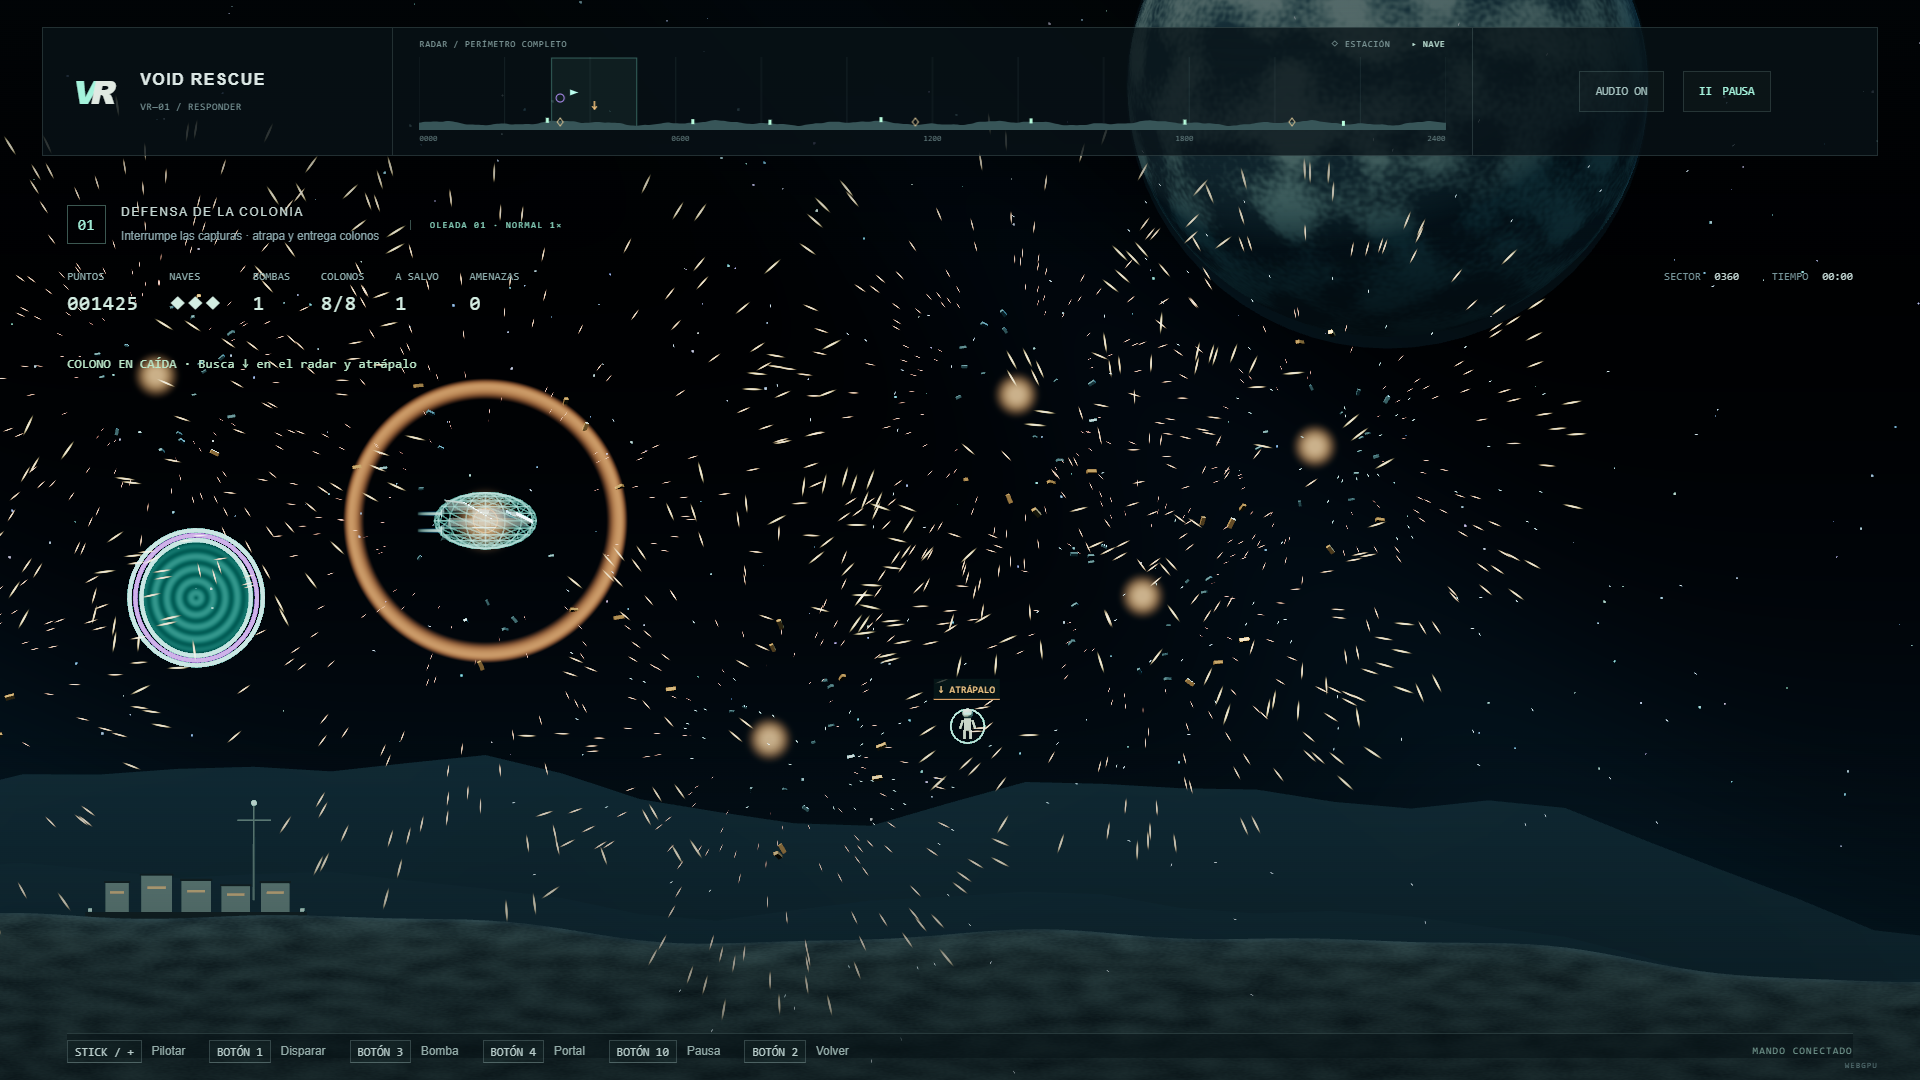
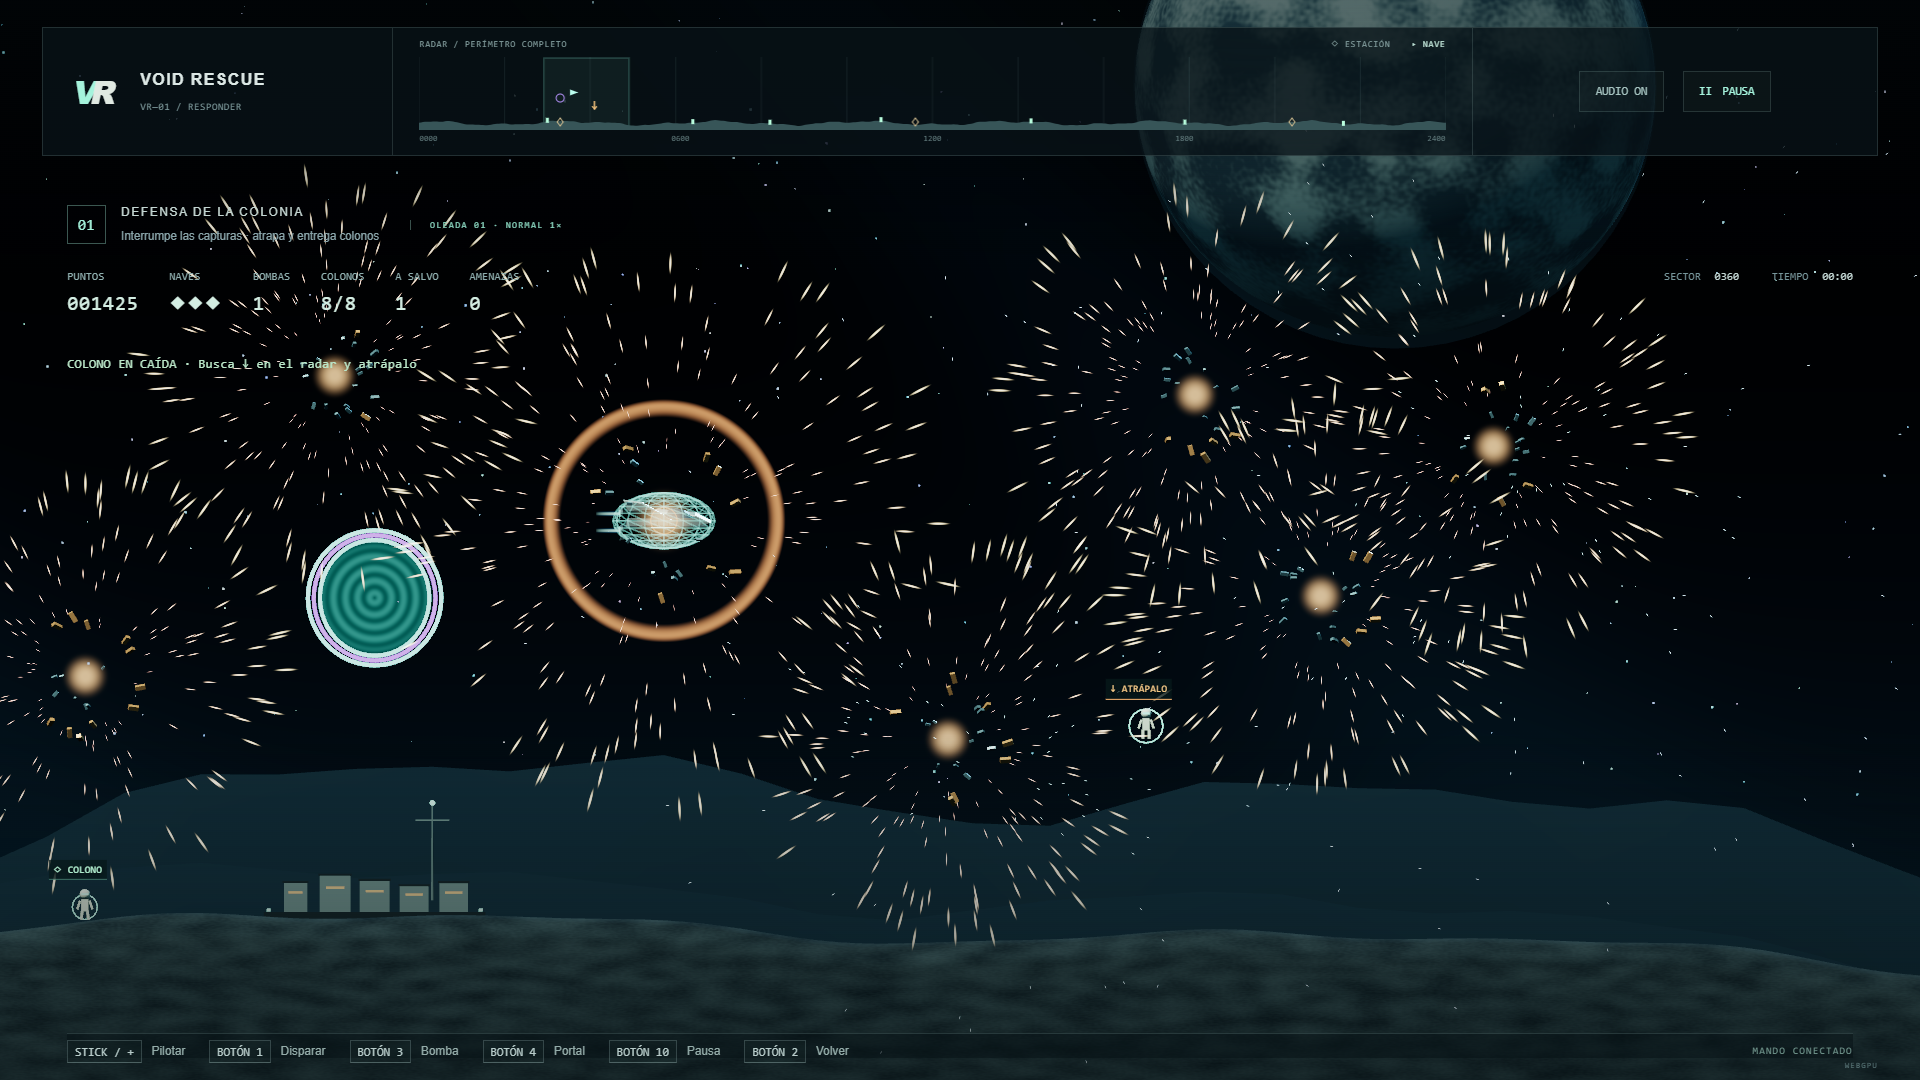
Polish camera timing and sci-fi audio

diff --git a/src/audio/AudioEngine.ts b/src/audio/AudioEngine.ts
@@ -8,6 +8,8 @@ export class AudioEngine {
   private master: GainNode | null = null;
   private engineGain: GainNode | null = null;
   private engine: OscillatorNode | null = null;
+  private engineWhine: OscillatorNode | null = null;
+  private engineWhineGain: GainNode | null = null;
   muted = false;
   volume = 0.45;
   private lastEventId = 0;
@@ -20,14 +22,22 @@ export class AudioEngine {
       const master = this.master = masterBus(context, context.destination);
       this.combat = new CombatSound(context, master);
       const engine = this.engine = context.createOscillator();
-      engine.type = 'sawtooth';
+      engine.type = 'triangle';
       const filter = context.createBiquadFilter();
-      filter.type = 'lowpass';
-      filter.frequency.value = 160;
+      filter.type = 'bandpass';
+      filter.frequency.value = 115; filter.Q.value = 0.7;
       const gain = this.engineGain = context.createGain();
       gain.gain.value = 0;
       engine.connect(filter).connect(gain).connect(master);
+      const whine = this.engineWhine = context.createOscillator();
+      whine.type = 'sine';
+      const whineFilter = context.createBiquadFilter();
+      whineFilter.type = 'lowpass'; whineFilter.frequency.value = 2600;
+      const whineGain = this.engineWhineGain = context.createGain();
+      whineGain.gain.value = 0;
+      whine.connect(whineFilter).connect(whineGain).connect(master);
       engine.start();
+      whine.start();
     }
     await this.context.resume();
     this.setVolume(this.volume);
@@ -41,10 +51,14 @@ export class AudioEngine {
   setMuted(value: boolean): void { this.muted = value; this.setVolume(this.volume); }
 
   update(thrust: number, speed: number, active: boolean): void {
-    if (!this.context || !this.engine || !this.engineGain) return;
+    if (!this.context || !this.engine || !this.engineGain || !this.engineWhine || !this.engineWhineGain) return;
     const now = this.context.currentTime;
-    this.engine.frequency.setTargetAtTime(36 + speed * 0.8 + thrust * 15, now, 0.06);
-    this.engineGain.gain.setTargetAtTime(active ? 0.022 + thrust * 0.06 : 0, now, 0.06);
+    // A filtered core plus a speed-linked sine whine reads as an ion drive,
+    // avoiding the low sawtooth tone of a combustion engine.
+    this.engine.frequency.setTargetAtTime(48 + speed * 0.18 + thrust * 18, now, 0.06);
+    this.engineWhine.frequency.setTargetAtTime(145 + speed * 4.2 + thrust * 165, now, 0.045);
+    this.engineGain.gain.setTargetAtTime(active ? 0.012 + thrust * 0.032 : 0, now, 0.06);
+    this.engineWhineGain.gain.setTargetAtTime(active ? 0.006 + thrust * 0.034 : 0, now, 0.045);
   }
 
   pulse(): void {
@@ -92,5 +106,5 @@ export class AudioEngine {
     return { initialized: this.context !== null, state: this.context?.state ?? 'locked', muted: this.muted, volume: this.volume };
   }
 
-  dispose(): void { this.engine?.stop(); void this.context?.close(); }
+  dispose(): void { this.engine?.stop(); this.engineWhine?.stop(); void this.context?.close(); }
 }

diff --git a/src/render/DestructionEffects.ts b/src/render/DestructionEffects.ts
@@ -41,7 +41,7 @@ export class DestructionEffects {
       if (age < 0 || !['spawn', 'impact', 'explosion', 'player-hit', 'bomb'].includes(event.kind)) continue;
       const x = nearCameraX(event.x, cameraX, CONFIG.worldWidth);
       const impact = event.kind === 'impact', spawning = event.kind === 'spawn', large = event.kind === 'bomb' || event.kind === 'player-hit';
-      const duration = impact ? 0.3 : spawning ? 0.65 : 0.62;
+      const duration = impact ? 0.3 : spawning ? 0.65 : large ? 1.45 : 1.25;
       if (age > duration) continue;
       const reach = impact ? 14 : spawning ? width * 0.45 : width * 0.75;
       if (Math.abs(x - cameraX) > width / 2 + reach) continue;
@@ -57,12 +57,12 @@ export class DestructionEffects {
         const random = noise(event.id * 73856093 + i * 19349663);
         const variation = noise(event.id * 83492791 + i * 2971215073);
         const angle = variation * Math.PI * 2;
-        const lifetime = spawning ? 0.38 + random * 0.24 : impact ? 0.16 + random * 0.14 : 0.3 + random * 0.32;
+        const lifetime = spawning ? 0.38 + random * 0.24 : impact ? 0.16 + random * 0.14 : 0.65 + random * (large ? 0.8 : 0.6);
         if (age > lifetime) continue;
         const progress = Math.min(1, age / lifetime);
         const travel = spawning
           ? width * (0.12 + random * 0.43) * (1 - progress)
-          : (impact ? 20 + random * 38 : 85 + random * 265) * scale * age;
+          : (impact ? 20 + random * 38 : 85 + random * 265) * scale * (1 - Math.exp(-age * 2.4)) / 2.4;
         this.helper.position.set(x + Math.cos(angle) * travel, event.y + Math.sin(angle) * travel - (spawning ? 0 : age * age * (8 + random * 22)), 14);
         this.helper.rotation.set(0, 0, angle);
         const fade = spawning ? Math.min(1, progress * 3) : 1 - progress;
@@ -75,7 +75,7 @@ export class DestructionEffects {
       }
       if (!impact && !spawning) for (let i = 0; i < (reduced ? 4 : 18) && debrisCount < 128; i++) {
         const random = noise(event.id * 2654435761 + i * 1597334677);
-        const angle = noise(event.id * 40503 + i * 7919) * Math.PI * 2, speed = (45 + random * 105) * scale;
+        const angle = noise(event.id * 40503 + i * 7919) * Math.PI * 2, speed = (30 + random * 70) * scale;
         this.helper.position.set(x + Math.cos(angle) * speed * age, event.y + Math.sin(angle) * speed * age - 8 * age * age, 13);
         this.helper.rotation.set(age * (i + 2), age * 2, angle + age * 5);
         this.helper.scale.setScalar((0.45 + random * 0.8) * Math.max(0, 1 - age / duration));

diff --git a/src/audio/CombatSound.ts b/src/audio/CombatSound.ts
@@ -44,17 +44,20 @@ export class CombatSound {
     };
     let last: AudioBufferSourceNode;
     if (kind === 'shot') {
-      tone(1300, 130, 0.14, 0.2, 'triangle'); tone(130, 48, 0.09, 0.28, 'sine');
-      last = noise(0.16, 6500, 900, 0.18);
+      // A rising plasma chirp and a short crystalline tail give the cannon a
+      // high-energy sci-fi identity without masking rapid follow-up shots.
+      tone(310, 2050, 0.1, 0.22, 'sawtooth'); tone(2650, 410, 0.18, 0.14, 'sine');
+      last = noise(0.19, 9800, 1250, 0.2);
     } else if (kind === 'impact') {
       tone(470, 85, 0.18, 0.22, 'triangle');
       last = noise(0.22, 8000, 700, 0.6);
     } else {
-      tone(large ? 85 : 135, 28, large ? 0.85 : 0.55, 0.62, 'sine');
-      tone(290 + seed % 80, 48, 0.23, 0.09, 'triangle');
-      noise(0.24, 11000, 1400, 0.85);
-      noise(0.45, 1900, 140, 0.5, 0.06);
-      last = noise(large ? 1.05 : 0.7, 3800, 160, 0.35, 0.12);
+      tone(large ? 78 : 118, 24, large ? 1.3 : 1.1, 0.7, 'sine');
+      tone(340 + seed % 120, 42, 0.42, 0.14, 'triangle', 0.03);
+      tone(980 + seed % 280, 105, 0.3, 0.1, 'sawtooth', 0.05);
+      noise(0.34, 12000, 1200, 0.92);
+      noise(0.72, 2400, 110, 0.58, 0.06);
+      last = noise(large ? 1.55 : 1.35, 4200, 120, 0.42, 0.12);
     }
     last.onended = () => { cleanup.forEach(node => node.disconnect()); done(); };
   }

diff --git a/tests/unit/core.test.ts b/tests/unit/core.test.ts
@@ -104,10 +104,10 @@ describe('vuelo', () => {
   });
   it('encuadra la nave en el primer o tercer cuarto según su orientación', () => {
     const camera = new CameraRig(400), width = 200;
-    for (let i = 0; i < 30; i++) camera.update(400, 0, 1, width, 1 / 60, false);
-    expect(400 - camera.x + width / 2).toBeCloseTo(width * 0.25, 0);
-    for (let i = 0; i < 30; i++) camera.update(400, 0, -1, width, 1 / 60, false);
-    expect(400 - camera.x + width / 2).toBeCloseTo(width * 0.75, 0);
+    for (let i = 0; i < 60; i++) camera.update(400, 0, 1, width, 1 / 60, false);
+    expect(Math.abs(400 - camera.x + width / 2 - width * 0.25)).toBeLessThan(width * 0.025);
+    for (let i = 0; i < 60; i++) camera.update(400, 0, -1, width, 1 / 60, false);
+    expect(Math.abs(400 - camera.x + width / 2 - width * 0.75)).toBeLessThan(width * 0.025);
   });
   it('dispara hacia la orientación, limita cadencia y retira proyectiles', () => {
     const s = new Simulation();

diff --git a/src/render/CameraRig.ts b/src/render/CameraRig.ts
@@ -18,6 +18,8 @@ export class CameraRig {
     // never displaces that intentional composition.
     const lookAhead = facing * viewWidth * 0.25 + (reducedMotion ? 0 : velocity * 0.035);
     const target = this.playerContinuousX + lookAhead;
-    this.x += (target - this.x) * (1 - Math.exp(-(reducedMotion ? 6 : 14) * Math.min(dt, 0.1)));
+    // A direction reversal completes its visible travel in about one second.
+    // Reduced-motion keeps the framing while slowing that glide further.
+    this.x += (target - this.x) * (1 - Math.exp(-(reducedMotion ? 2 : 3) * Math.min(dt, 0.1)));
   }
 }

diff --git a/README.md b/README.md
@@ -101,11 +101,11 @@ Guardado únicamente en este navegador/origen mediante `localStorage` (`void-res
 
 ## Audio y explosiones
 
-Disparos con pulso agudo, golpe grave y ataque de ruido; impactos con ruido filtrado y resonancia; explosiones con transitorio, subgrave, cola de ruido y fragmentación metálica. Variación determinista, panorámica, límite de voces, compresor y saturación suave final. Se mantienen silencio y volumen.
+El propulsor combina un núcleo filtrado y un silbido de iones ligado a velocidad/aceleración, en lugar de un motor de combustión. Los disparos usan un chirrido de plasma ascendente y una cola cristalina; las explosiones combinan transitorio, subgrave, ruido amplio y fragmentación metálica durante más de un segundo. Variación determinista, panorámica, límite de voces, compresor y saturación suave final. Se mantienen silencio y volumen.
 
-Destrucciones con núcleo brillante breve, chispas alargadas, fragmentos giratorios y nube caliente que se disipa. Las partículas continúan disipándose detrás del resumen, pero se congelan en pausa. La opción de reducir efectos baja cantidad/intensidad y elimina las nubes; conserva la información del impacto.
+Destrucciones con núcleo brillante breve, chispas alargadas y fragmentos giratorios que se disipan durante ~1.25 s (hasta ~1.45 s para bomba o destrucción propia). Las partículas continúan disipándose detrás del resumen, pero se congelan en pausa. La opción de reducir efectos baja cantidad/intensidad y elimina las nubes; conserva la información del impacto.
 
-La prueba offline usa diez explosiones/bombas superpuestas y seis disparos a 48 kHz estéreo: pico ~0.623, RMS ~0.081, sin muestras no finitas ni valores fuera de [-1,1]. Evidencia en `*-audio-mix.json`. No sustituye la escucha humana.
+La prueba offline usa diez explosiones/bombas superpuestas y seis disparos a 48 kHz estéreo: pico ~0.639, RMS ~0.092, sin muestras no finitas ni valores fuera de [-1,1]. Evidencia en `*-audio-mix.json`. No sustituye la escucha humana.
 
 ## Arquitectura y decisiones
 
@@ -120,7 +120,7 @@ Mundo circular de 2400 unidades, proyectiles y rescate con barrido para movimien
 
 ## Ajuste de cámara y combate — 2026-09-10
 
-La cámara ahora coloca la nave en el primer cuarto horizontal al orientarse a la derecha y en el tercer cuarto al orientarse a la izquierda. El recorrido hacia esa composición es rápido y continuo, incluso al cruzar la costura del mundo. El pequeño adelanto de velocidad no altera esa referencia visual.
+La cámara ahora coloca la nave en el primer cuarto horizontal al orientarse a la derecha y en el tercer cuarto al orientarse a la izquierda. El recorrido hacia esa composición tarda aproximadamente un segundo y es continuo, incluso al cruzar la costura del mundo. El pequeño adelanto de velocidad no altera esa referencia visual.
 
 Los disparos del jugador sólo pueden dañar objetivos dentro de la ventana principal de juego; los contactos que sólo aparecen en el radar no reciben colisiones. Las destrucciones abandonan el patrón espiral: usan dispersión radial determinista, caótica y breve que alcanza el campo visible. Las apariciones invierten el efecto: partículas cian se contraen desde la pantalla hasta la nave antes de activarla.
 

diff --git a/PLAN.md b/PLAN.md
@@ -185,3 +185,13 @@ Solicitud explícita del usuario: al orientar la nave a la derecha/izquierda, ll
 - [x] Ejecutar validación visual en Chromium y actualizar resultados de esta sección.
 
 Validación: TypeScript, 54 pruebas unitarias y build pasaron. Los recorridos de Playwright se actualizaron para seis familias y la nueva transición de cámara; los recorridos concretos de siluetas y costura pasaron en WebGPU/WebGL2. La ejecución completa volvió a generar capturas de ambos backends sin conservar resultados de fallo. Se revisaron `chromium-auto-combat.png` y `chromium-auto-explosion-upgrade.png`: la cámara sitúa la nave en el cuarto izquierdo mirando a la derecha y las partículas se dispersan caóticamente por la vista.
+
+## Ajuste autorizado — ritmo y audio espacial (2026-09-10)
+
+Corrección del usuario: la transición de orientación/cámara debe ocupar aproximadamente un segundo, no 100 ms. Además, las explosiones deben permanecer visibles entre uno y 1.5 segundos, y el láser, destrucción y propulsor deben tener una identidad más espectacular de ciencia ficción.
+
+- [x] Ajustar el desplazamiento de encuadre de cámara a ~1 s (95% del recorrido), sin romper costura ni composición 25%/75%.
+- [x] Extender explosiones normales a ~1.25 s y las grandes a ~1.45 s; conservar impacto breve y partículas aleatorias.
+- [x] Sustituir el motor grave por núcleo filtrado + silbido de iones dependiente de velocidad/aceleración.
+- [x] Reforzar láser de plasma y capas prolongadas de explosión sin clipping.
+- [x] Verificar 54 pruebas unitarias, build y las ocho pruebas de actualización en WebGPU/WebGL2; mezcla offline finita, pico 0.639 y RMS 0.092.
